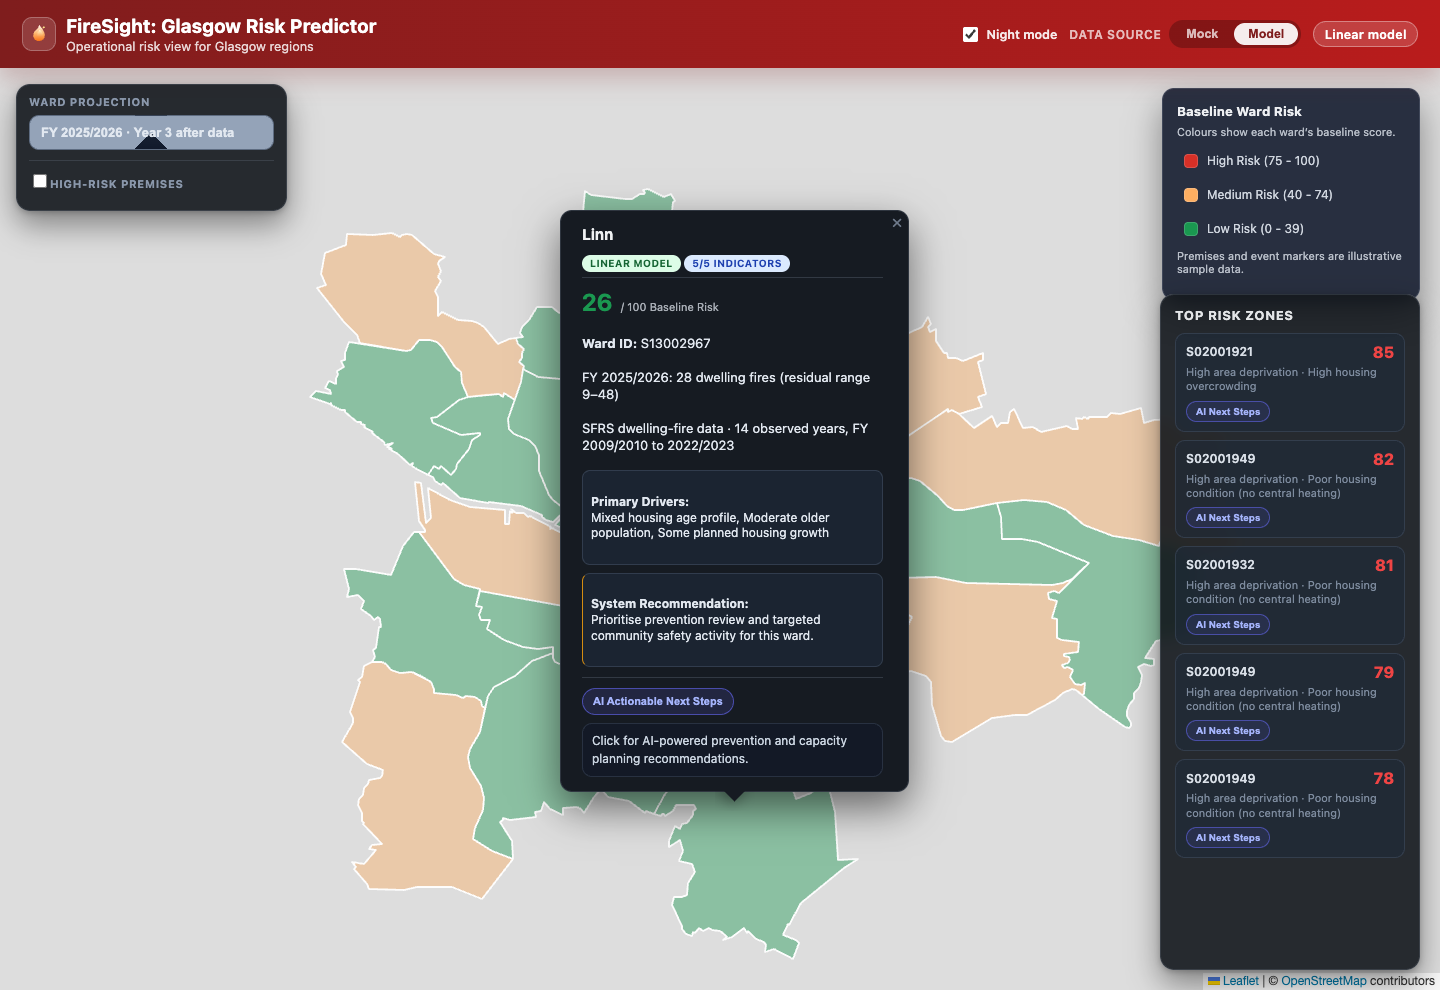
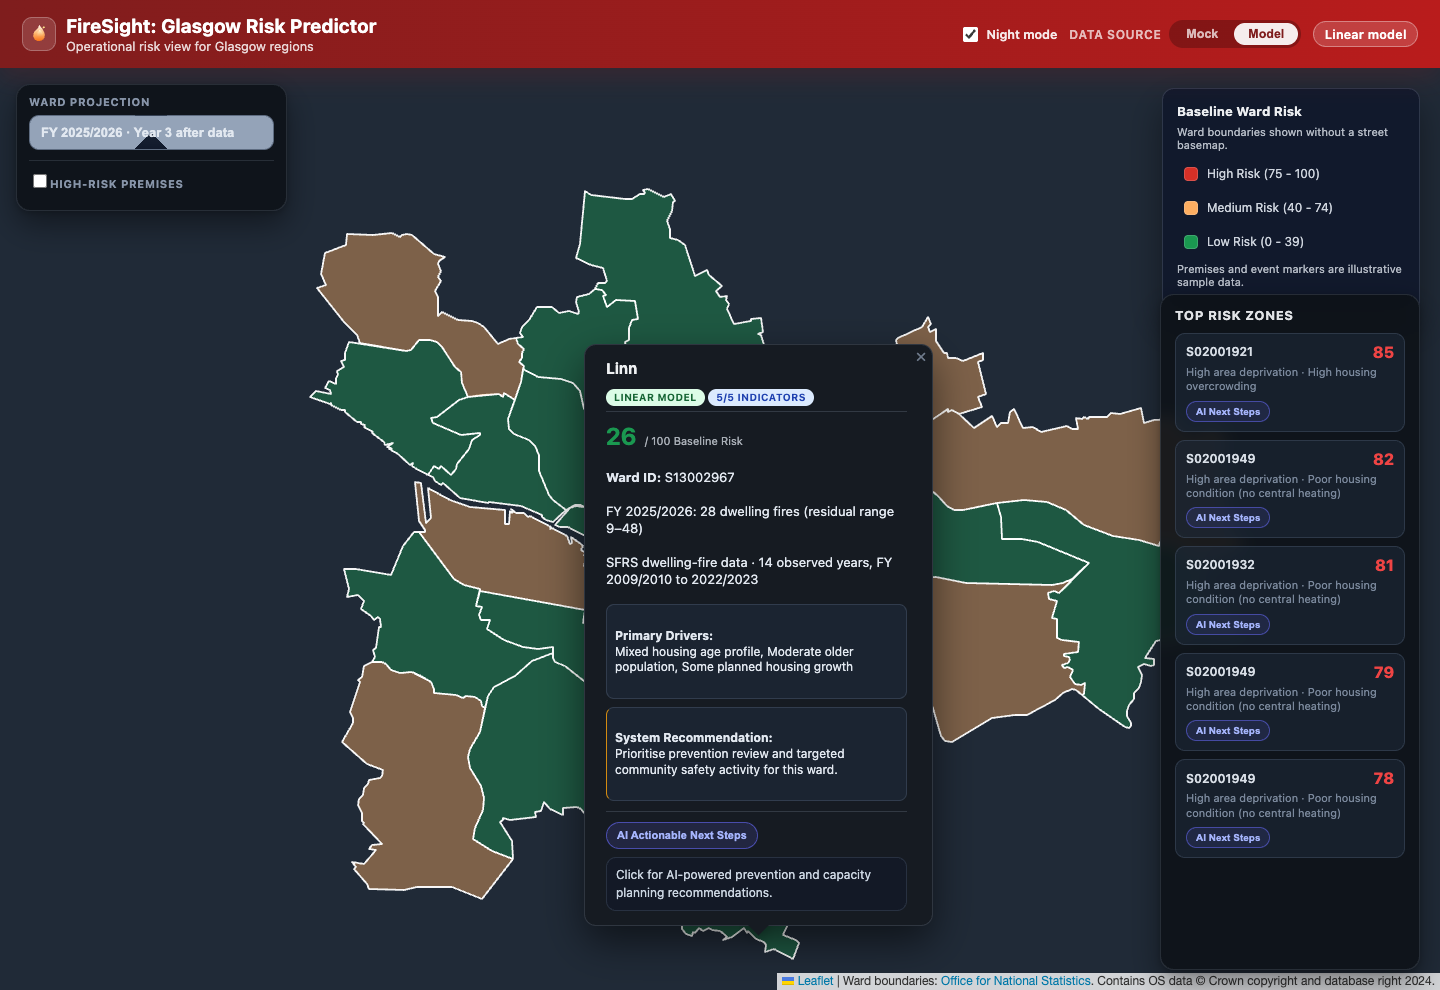
Default to attributed ward boundaries without external tiles

diff --git a/frontend/fire_website/src/components/Map/RiskMap.jsx b/frontend/fire_website/src/components/Map/RiskMap.jsx
@@ -6,6 +6,7 @@ import PremisesLayer from './PremisesLayer';
 import RiskLayer from './RiskLayer';
 import 'leaflet/dist/leaflet.css';
 import './Map.css';
+import { MAP_TILE_ATTRIBUTION, MAP_TILE_URL } from '../../config';
 
 const RiskMap = ({
   lead,
@@ -30,14 +31,9 @@ const RiskMap = ({
         className="risk-map-container"
         zoomControl={false}
       >
-        <TileLayer
-          attribution='&copy; <a href="https://www.openstreetmap.org/copyright">OpenStreetMap</a> contributors'
-          url={
-            nightMode
-              ? 'https://{s}.basemaps.cartocdn.com/dark_all/{z}/{x}/{y}{r}.png'
-              : 'https://{s}.basemaps.cartocdn.com/light_all/{z}/{x}/{y}{r}.png'
-          }
-        />
+        {MAP_TILE_URL && MAP_TILE_ATTRIBUTION && (
+          <TileLayer url={MAP_TILE_URL} attribution={MAP_TILE_ATTRIBUTION} />
+        )}
 
         <RiskLayer lead={lead} hoveredRiskBand={hoveredRiskBand} dataSource={dataSource} />
         {showPremises && <PremisesLayer timeFrame={overlayTimeFrame} focus="city-centre" riskBandFilter="high" />}

diff --git a/frontend/fire_website/src/components/Dashboard/TopRiskAreas.jsx b/frontend/fire_website/src/components/Dashboard/TopRiskAreas.jsx
@@ -58,15 +58,15 @@ const TopRiskAreas = ({ dataSource = 'mock', lead = 0 }) => {
   return (
     <div className="top-areas">
       <h3>Top Risk {dataSource === 'model' ? 'Zones' : 'Wards'}</h3>
-      {result.status === 'loading' && <p role="status">Loading…</p>}
+      {result.status === 'loading' && <p className="top-areas-status" role="status">Loading…</p>}
       {result.status === 'error' && (
         <>
-          <p role="alert">Could not load the risk rankings.</p>
+          <p className="top-areas-status" role="alert">Could not load the risk rankings.</p>
           <button type="button" className="top-area-ai-btn" onClick={retry}>Retry</button>
         </>
       )}
       {result.status === 'ready' && result.areas.length === 0 && (
-        <p role="status">No ranked areas available.</p>
+        <p className="top-areas-status" role="status">No ranked areas available.</p>
       )}
       {result.areas.length > 0 && (
         <ul>

diff --git a/frontend/fire_website/src/components/Map/MapLegend.jsx b/frontend/fire_website/src/components/Map/MapLegend.jsx
@@ -1,11 +1,14 @@
 import './Map.css';
+import { MAP_TILE_ATTRIBUTION, MAP_TILE_URL } from '../../config';
 
 const MapLegend = ({ hoveredRiskBand, onRiskBandHover }) => {
   return (
     <div className="map-legend" onMouseLeave={() => onRiskBandHover(null)}>
       <h4>Baseline Ward Risk</h4>
       <p className="legend-subtitle">
-        Colours show each ward’s baseline score.
+        {MAP_TILE_URL && MAP_TILE_ATTRIBUTION
+          ? 'Colours show each ward’s baseline score.'
+          : 'Ward boundaries shown without a street basemap.'}
       </p>
       
       <div

diff --git a/frontend/fire_website/src/components/Map/RiskLayer.jsx b/frontend/fire_website/src/components/Map/RiskLayer.jsx
@@ -289,6 +289,7 @@ const RiskLayer = ({ lead = 0, hoveredRiskBand = null, dataSource = 'mock' }) =>
           key={dataSource}
           ref={geoJsonRef}
           data={geoData}
+          attribution={'Ward boundaries: <a href="https://www.ons.gov.uk/methodology/geography/licences">Office for National Statistics</a>. Contains OS data © Crown copyright and database right 2024.'}
           style={styleRegion}
           onEachFeature={onEachFeature}
         />

diff --git a/frontend/fire_website/src/config.js b/frontend/fire_website/src/config.js
@@ -7,3 +7,7 @@ export const BACKEND_URL = stripTrailingSlash(
 
 // Optional external events feed. When unset, the map uses built-in sample events.
 export const EVENTS_API_URL = import.meta.env.VITE_EVENTS_API_URL || '';
+
+// Optional browser-authorised basemap template and its provider attribution.
+export const MAP_TILE_URL = import.meta.env.VITE_MAP_TILE_URL || '';
+export const MAP_TILE_ATTRIBUTION = import.meta.env.VITE_MAP_TILE_ATTRIBUTION || '';

diff --git a/frontend/fire_website/src/components/Dashboard/TopRiskAreas.css b/frontend/fire_website/src/components/Dashboard/TopRiskAreas.css
@@ -8,7 +8,7 @@
   letter-spacing: 0.05em;
 }
 
-.top-areas-loading {
+.top-areas-status {
   font-size: 12px;
   color: #64748b;
   margin: 0;
@@ -112,7 +112,7 @@
   color: rgba(248, 250, 252, 0.9);
 }
 
-.night-mode .top-areas-loading {
+.night-mode .top-areas-status {
   color: rgba(148, 163, 184, 0.8);
 }
 

diff --git a/frontend/fire_website/src/components/Map/Map.css b/frontend/fire_website/src/components/Map/Map.css
@@ -713,3 +713,11 @@
     max-width: calc(100vw - 32px);
   }
 }
+
+.risk-map-container.leaflet-container {
+  background: #e4e9e9;
+}
+
+.night-mode .risk-map-container.leaflet-container {
+  background: #202a37;
+}

diff --git a/README.md b/README.md
@@ -42,8 +42,7 @@ To see a projection, choose **Model**, open a ward on the map and select a finan
 
 ![Fire Sight showing Linn's 2025/2026 projection and the observed SFRS data span](docs/images/annual-ward-projection.png)
 
-The screenshot shows the ward overlay with external background tiles omitted.
-
+The default dashboard shows the ward boundaries with no external basemap.
 
 The Mock source and the premises and event overlays use illustrative sample data, not real premises or incidents. Model mode uses the pipeline output.
 
@@ -87,6 +86,7 @@ After the hackathon I did the cleanup in this copy of the repo: tests, CI, deplo
 
 - Fire statistics by type of incident: Scottish Fire and Rescue Service, via [data.gov.scot](https://data.gov.scot/dataset/fire___type_of_incident).
 - Scottish Index of Multiple Deprivation 2020 (SIMD 2020v2) and indicator data: Scottish Government.
-- Both are used under the Open Government Licence v3.0. Map tiles: OpenStreetMap contributors, CARTO.
+- Both are used under the Open Government Licence v3.0.
+- [Ward boundaries](https://www.data.gov.uk/dataset/faf874fd-aee8-4ca0-a4a9-4c8885ba3e82/wards-may-2024-boundaries-uk-bgc): Office for National Statistics. Contains OS data © Crown copyright and database right 2024.
 
 The code ("Code") in this repository was created solely by the student teams during a coding competition hosted by JPMorgan Chase Bank, N.A. ("JPMC"). JPMC did not create or contribute to the development of the Code. This Code is provided AS IS and JPMC makes no warranty of any kind, express or implied, as to the Code, including but not limited to, merchantability, satisfactory quality, non-infringement, title or fitness for a particular purpose or use.

diff --git a/docs/DEPLOY.md b/docs/DEPLOY.md
@@ -5,6 +5,7 @@
 | Variable | Where | Purpose |
 | --- | --- | --- |
 | `VITE_BACKEND_URL` | frontend `.env.local` | API base URL, default `http://localhost:8000` |
+| `VITE_MAP_TILE_URL`, `VITE_MAP_TILE_ATTRIBUTION` | frontend, optional | Authorised public-browser tile URL template and required provider attribution. Set both to enable a basemap |
 | `VITE_EVENTS_API_URL` | frontend, optional | External events feed. Unset means built-in sample events |
 | `CORS_ORIGINS` | backend | Comma-separated allowed origins, default `http://localhost:5173,http://127.0.0.1:5173` |
 | `OPENAI_API_KEY`, `OPENAI_MODEL` | backend, optional | Live explanations, model defaults to `gpt-4o-mini` |
@@ -18,3 +19,5 @@ Copy `backend/.env.example` to `backend/.env` and `frontend/fire_website/.env.ex
 ## Frontend on Vercel
 
 Set the project root to `frontend/fire_website` and `VITE_BACKEND_URL` to the Render URL, then redeploy.
+
+The default map uses the bundled Glasgow ward boundaries and requires no basemap key. To add a street basemap, use a provider-approved browser tile URL and its required attribution. Values prefixed with `VITE_` are included in the browser build. Use only public or origin-restricted provider credentials intended for browser use.
